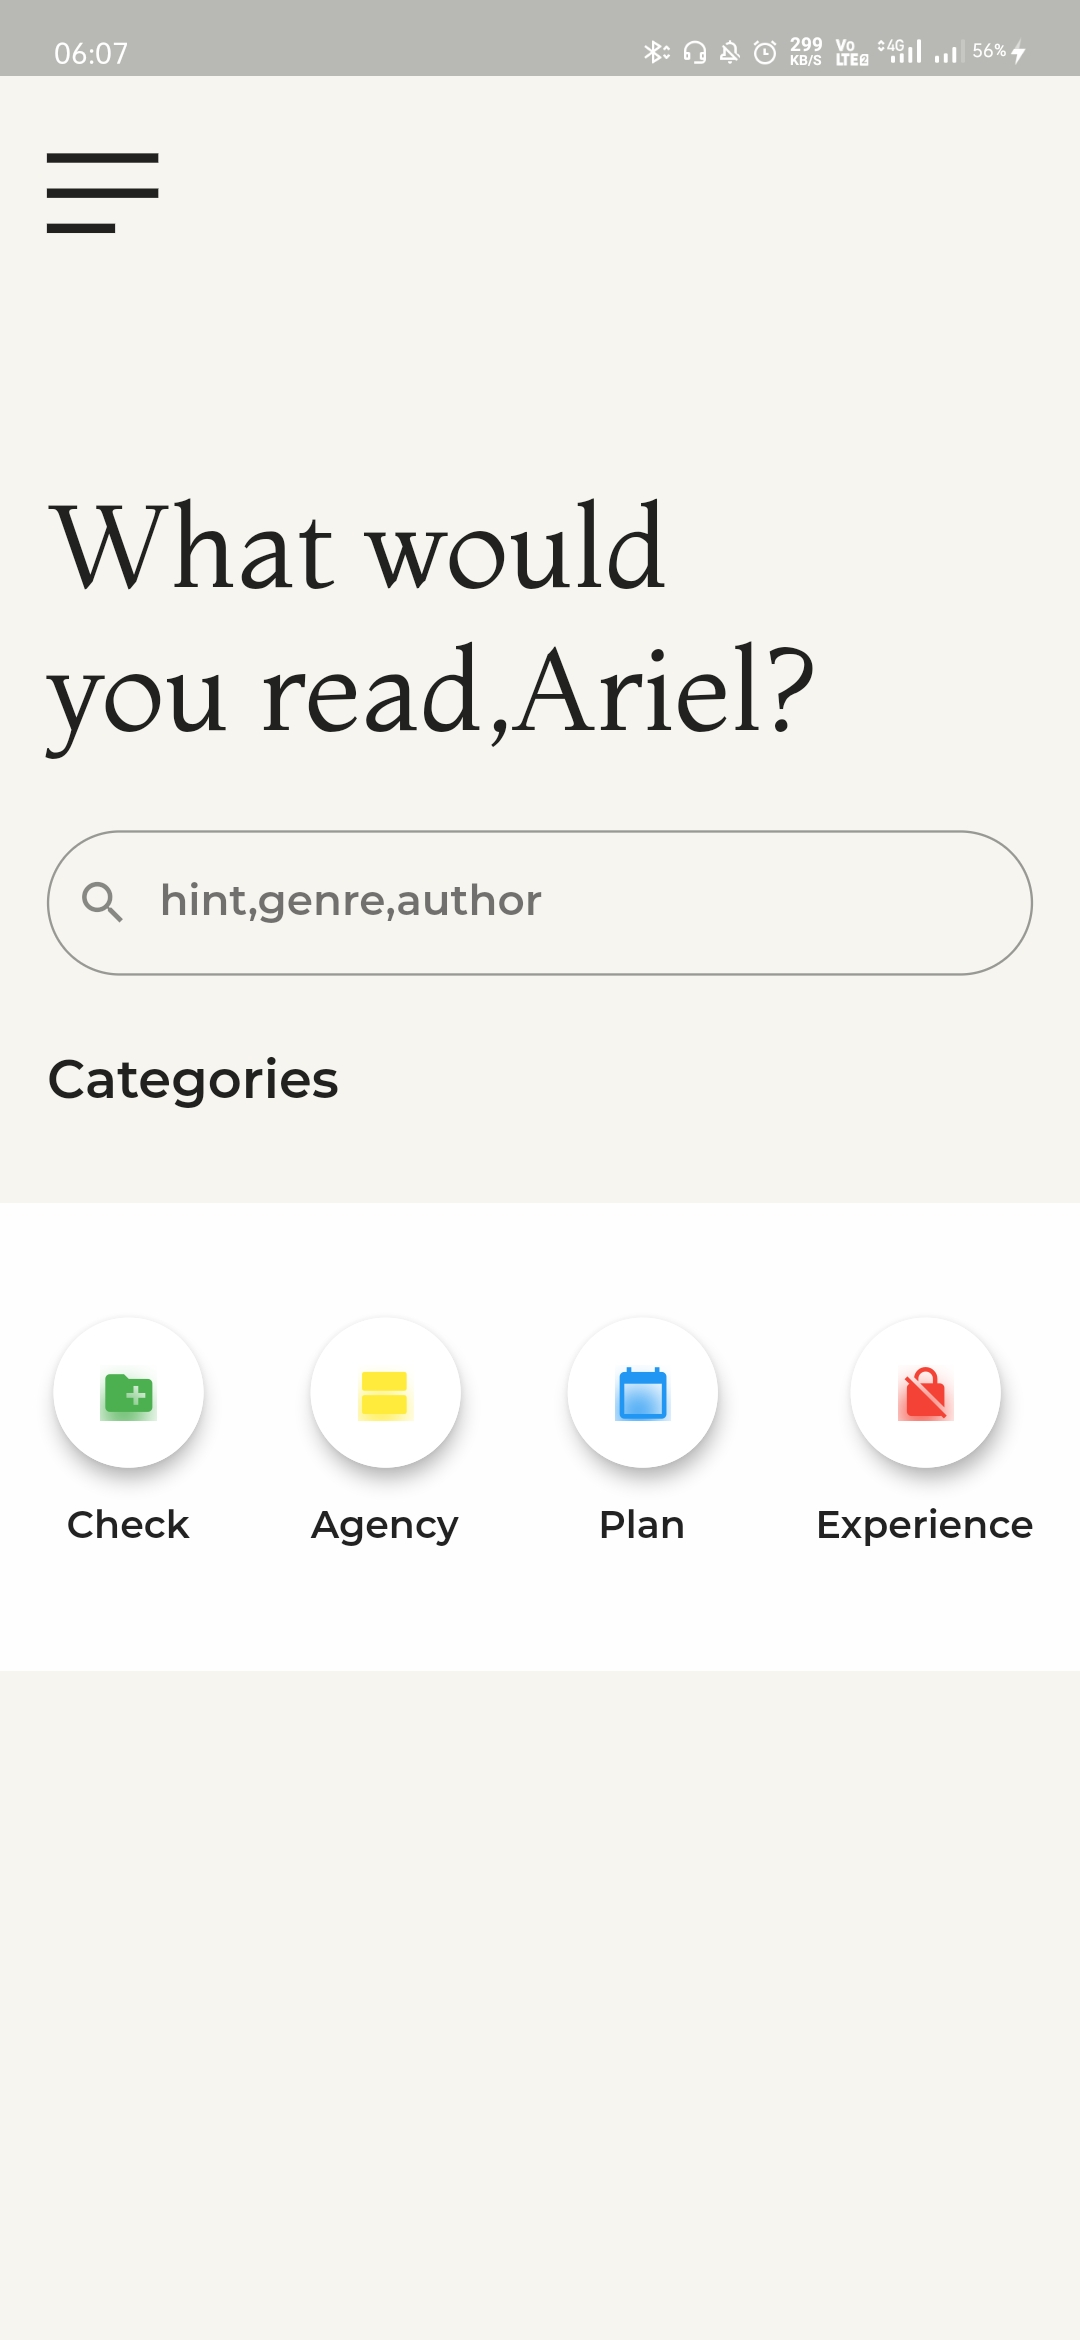
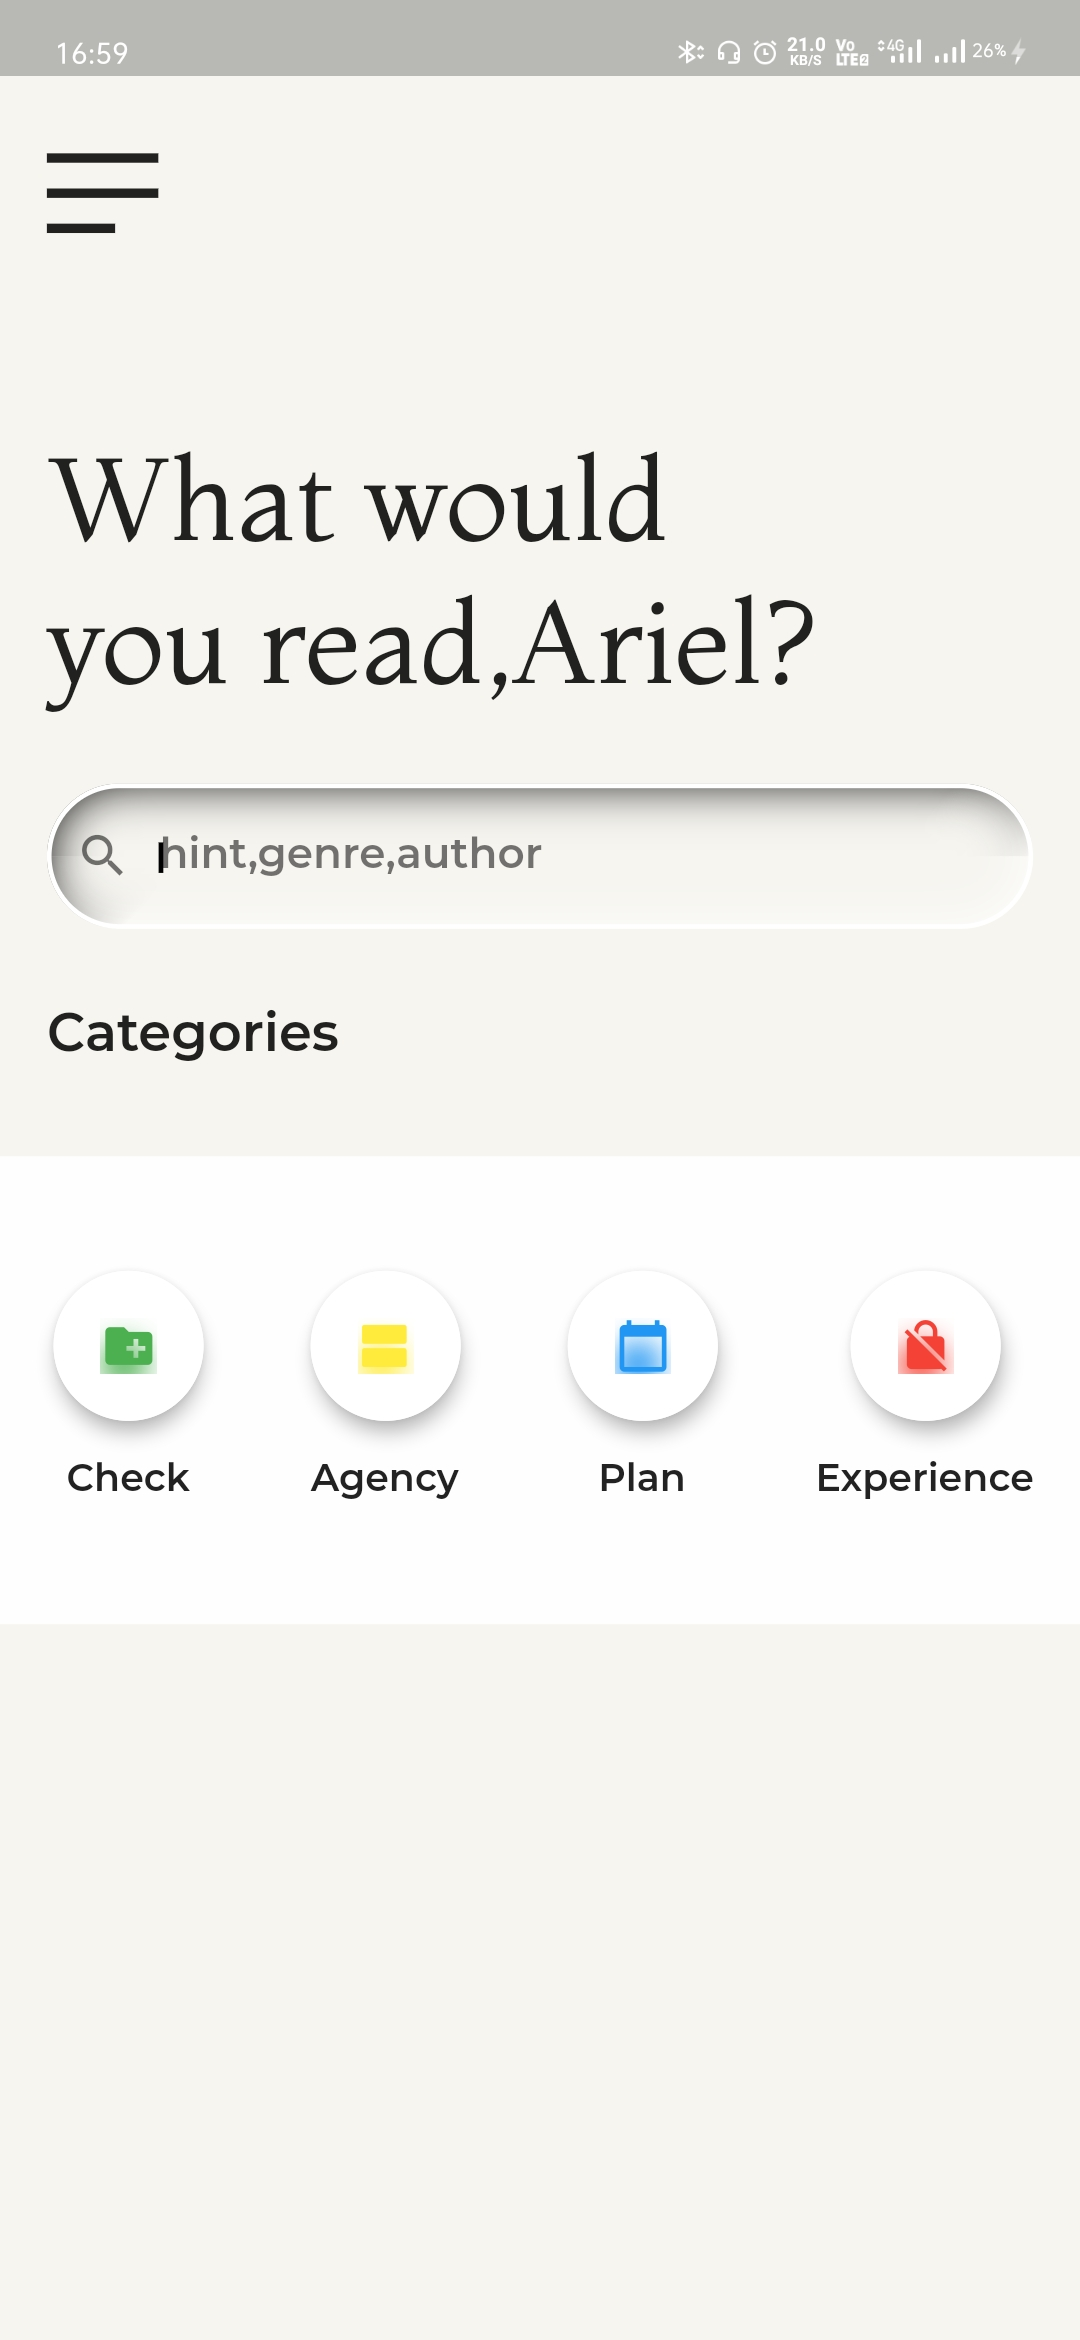
added neomorphic searchbar

diff --git a/lib/widgets/searchbar_design.dart b/lib/widgets/searchbar_design.dart
@@ -1,0 +1,121 @@
+import 'dart:ui' as ui;
+import 'dart:ui';
+import 'package:flutter/material.dart';
+import 'package:flutter/painting.dart';
+
+class ConcaveDecoration extends Decoration {
+  final ShapeBorder shape;
+
+  final double depth;
+
+  final List<Color> colors;
+
+  final double opacity;
+
+  ConcaveDecoration({
+    @required this.shape,
+    @required this.depth,
+    this.colors = const [Colors.white, Colors.black54],
+    this.opacity = 1.0,
+  })  : assert(shape != null),
+        assert(colors == null || colors.length == 2);
+
+  @override
+  BoxPainter createBoxPainter([onChanged]) =>
+      _ConcaveDecorationPainter(shape, depth, colors, opacity);
+
+  @override
+  EdgeInsetsGeometry get padding => shape.dimensions;
+
+  @override
+  Decoration lerpFrom(Decoration a, double t) {
+    if (a is ConcaveDecoration) {
+      t = Curves.easeInOut.transform(t);
+
+      return ConcaveDecoration(
+        shape: ShapeBorder.lerp(a.shape, shape, t),
+        depth: ui.lerpDouble(a.depth, depth, t),
+        colors: [
+          Color.lerp(a.colors[0], colors[0], t),
+          Color.lerp(a.colors[1], colors[1], t),
+        ],
+        opacity: ui.lerpDouble(a.opacity, opacity, t),
+      );
+    }
+
+    return null;
+  }
+}
+
+class _ConcaveDecorationPainter extends BoxPainter {
+  ShapeBorder shape;
+
+  double depth;
+
+  List<Color> colors;
+
+  double opacity;
+
+  _ConcaveDecorationPainter(this.shape, this.depth, this.colors, this.opacity) {
+    if (depth > 0) {
+      colors = [
+        colors[1],
+        colors[0],
+      ];
+    } else {
+      depth = -depth;
+    }
+
+    colors = [
+      colors[0].withOpacity(opacity),
+      colors[1].withOpacity(opacity),
+    ];
+  }
+
+  @override
+  void paint(
+      ui.Canvas canvas, ui.Offset offset, ImageConfiguration configuration) {
+    final shapePath = shape.getOuterPath(offset & configuration.size);
+
+    final rect = shapePath.getBounds();
+
+    final delta = 16 / rect.longestSide;
+
+    final stops = [0.5 - delta, 0.5 + delta];
+
+    final path = Path()
+      ..fillType = PathFillType.evenOdd
+      ..addRect(rect.inflate(depth * 2))
+      ..addPath(shapePath, Offset.zero);
+
+    canvas.save();
+
+    canvas.clipPath(shapePath);
+
+    final paint = Paint()
+      ..maskFilter = MaskFilter.blur(BlurStyle.normal, depth);
+
+    final clipSize = rect.size.aspectRatio > 1
+        ? Size(rect.width, rect.height / 2)
+        : Size(rect.width / 2, rect.height);
+
+    for (final alignment in [Alignment.topLeft, Alignment.bottomRight]) {
+      final shaderRect =
+          alignment.inscribe(Size.square(rect.longestSide), rect);
+
+      paint
+        ..shader = ui.Gradient.linear(
+            shaderRect.topLeft, shaderRect.bottomRight, colors, stops);
+
+      canvas.save();
+
+      canvas.clipRect(alignment.inscribe(clipSize, rect));
+
+      canvas.drawPath(path, paint);
+
+      canvas.restore();
+    }
+
+    canvas.restore();
+  }
+}

diff --git a/lib/widgets/search_bar.dart b/lib/widgets/search_bar.dart
@@ -1,28 +1,38 @@
 import 'package:flutter/cupertino.dart';
 import 'package:flutter/material.dart';
 import 'dart:ui';
+import './searchbar_design.dart';
 
 class SearchBar extends StatelessWidget {
   @override
   Widget build(BuildContext context) {
+    final decoration = ConcaveDecoration(
+      shape: RoundedRectangleBorder(
+        borderRadius: BorderRadius.circular(50),
+      ),
+      depth: 10,
+    );
     return Container(
       padding: EdgeInsets.symmetric(vertical: 10),
       child: Container(
-        decoration: BoxDecoration(
-          borderRadius: BorderRadius.circular(50),
-        ),
+        decoration: decoration,
         child: TextField(
           decoration: InputDecoration(
-              border: new OutlineInputBorder(
-                borderSide: BorderSide(color: Colors.black),
-                borderRadius: BorderRadius.circular(50),
-              ),
-              prefixIcon: Icon(Icons.search),
-              hintText: "hint,genre,author",
-              hintStyle: TextStyle(
-                  fontSize: 20.0,
-                  fontWeight: FontWeight.w600,
-                  fontFamily: "Montserrat")),
+            border: new OutlineInputBorder(
+              borderSide: BorderSide(color: Colors.white),
+              borderRadius: BorderRadius.circular(50),
+            ),
+            prefixIcon: Icon(
+              Icons.search,
+              color: Colors.black54,
+            ),
+            hintText: "hint,genre,author",
+            hintStyle: TextStyle(
+                fontSize: 20.0,
+                fontWeight: FontWeight.w600,
+                fontFamily: "Montserrat"),
+          ),
+          cursorColor: Colors.black54,
         ),
       ),
     );

diff --git a/test/widget_test.dart b/test/widget_test.dart
@@ -8,8 +8,6 @@
 import 'package:flutter/material.dart';
 import 'package:flutter_test/flutter_test.dart';
 
-import 'package:smoothui/main.dart';
-
 void main() {
   testWidgets('Counter increments smoke test', (WidgetTester tester) async {
     // Build our app and trigger a frame.

diff --git a/lib/widgets/category_item.dart b/lib/widgets/category_item.dart
@@ -1,9 +1,9 @@
 import 'package:flutter/material.dart';
 
 class CategoryItem extends StatelessWidget {
-  IconData icon;
-  Color color;
-  String topic;
+  final IconData icon;
+  final Color color;
+  final String topic;
 
   CategoryItem({this.icon, this.color, this.topic});
 

diff --git a/README.md b/README.md
@@ -2,4 +2,4 @@
 A Smooth UI for a book reading app
 
 
-![Preview of the app](https://github.com/KumarArab/Smooth-UI/blob/master/UI.jpg?raw=true)
+![Preview of the app](https://github.com/KumarArab/Soomth-UI/blob/master/UI.png?raw=true)
